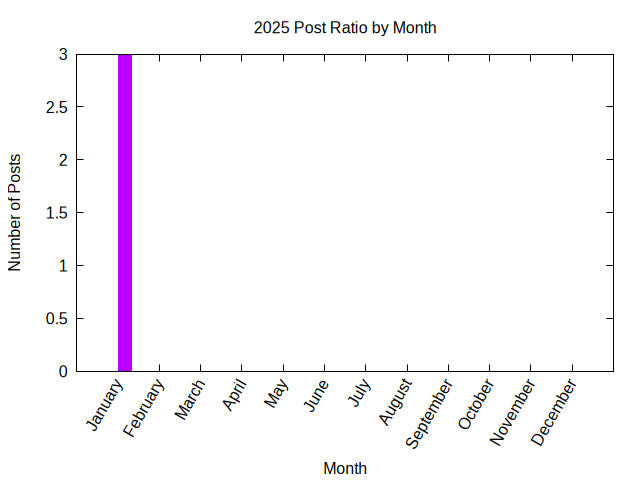
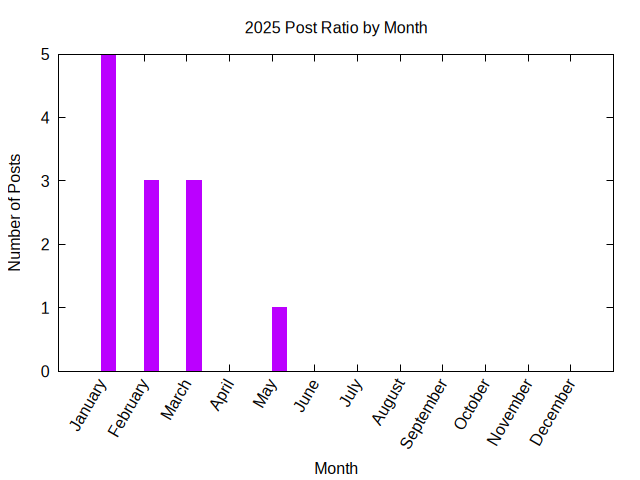
Stats update

diff --git a/_includes/stats/2025.md b/_includes/stats/2025.md
@@ -1,18 +1,22 @@
 <a name="2025" />
 ## 2025 (work in progress)
 
-**3 total posts** have been written on 2025.
-There have been *8 different tags* used, the most
+**12 total posts** have been written on 2025.
+There have been *12 different tags* used, the most
 popular being (sorted by number of posts):
  
-- *python* (2 posts)  
-- *perl* (2 posts)  
-- *java* (2 posts)  
-- *perlweeklychallenge* (2 posts)  
-- *raku* (2 posts)  
+- *perl* (7 posts)  
+- *java* (7 posts)  
+- *python* (7 posts)  
+- *perlweeklychallenge* (7 posts)  
+- *raku* (7 posts)  
+- *postgresql* (4 posts)  
+- *planet-postgresql-org* (4 posts)  
+- *openday* (1 posts)  
 - *pgagroal* (1 posts)  
-- *planet-postgresql-org* (1 posts)  
-- *postgresql* (1 posts).<br/>
+- *pgtraining* (1 posts)  
+- *gnome* (1 posts)  
+- *pgenv* (1 posts).<br/>
 <br/>
 The following is the overall 2025 post ratio by month:
 <br/>
@@ -31,7 +35,7 @@ The following is the overall 2025 post ratio by tag (showing max 30 tags):
 
 <div align="right">
 <small>
-Last generated on 2025-01-16 at 17:11
+Last generated on 2025-03-10 at 17:53
 </small>
 </div>
 
